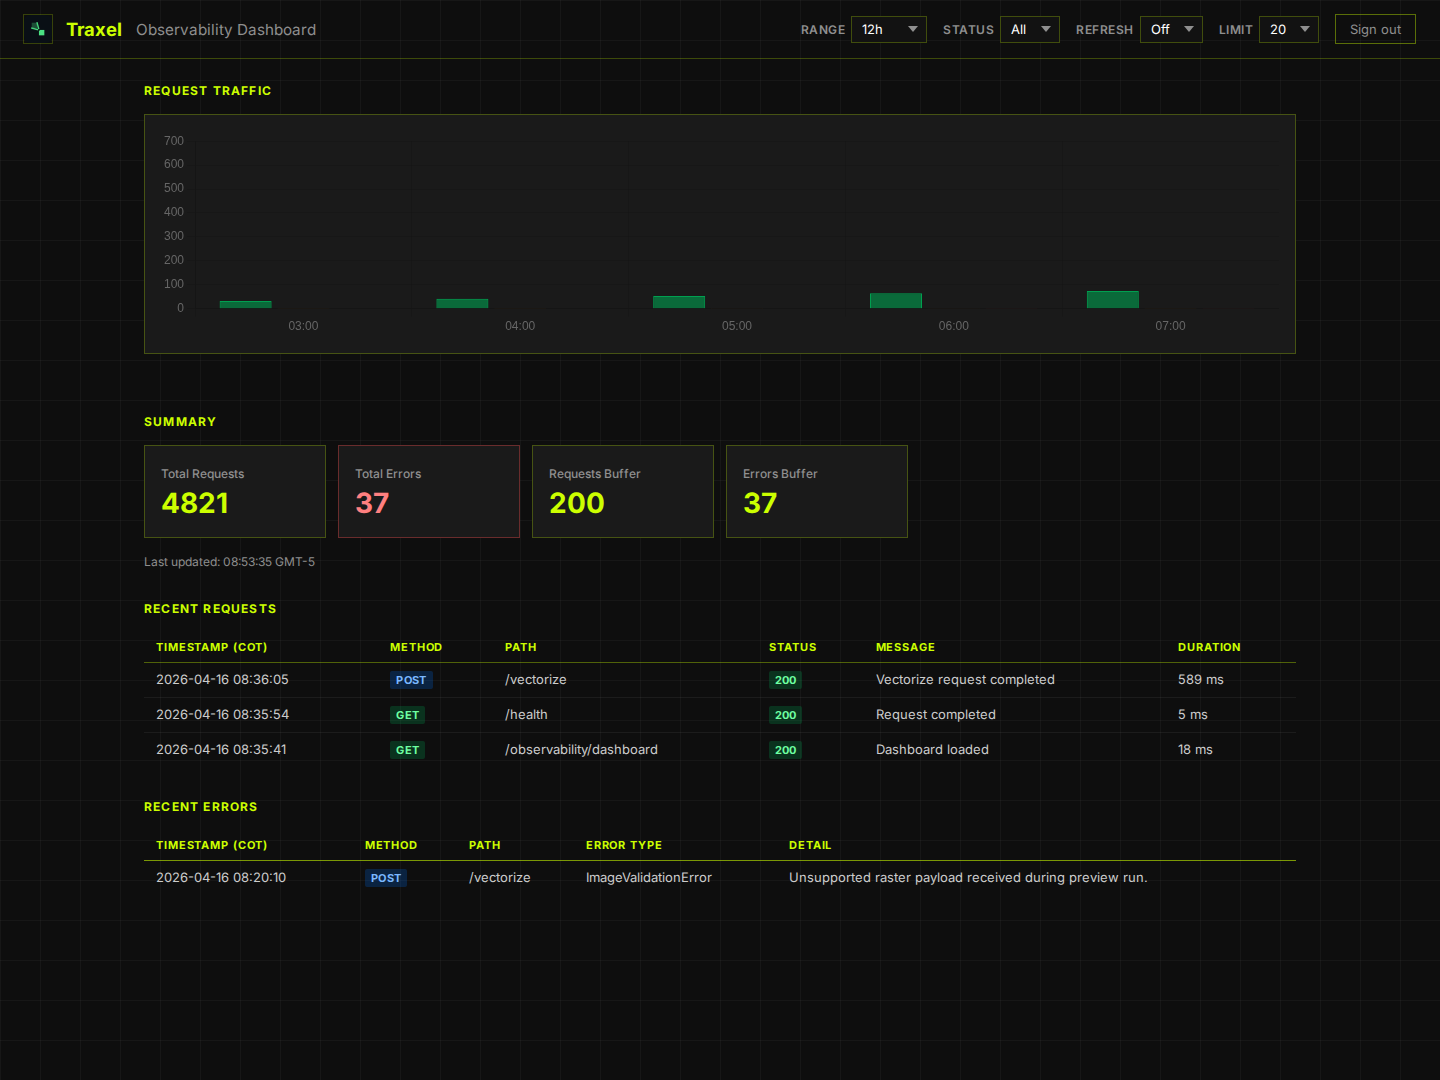
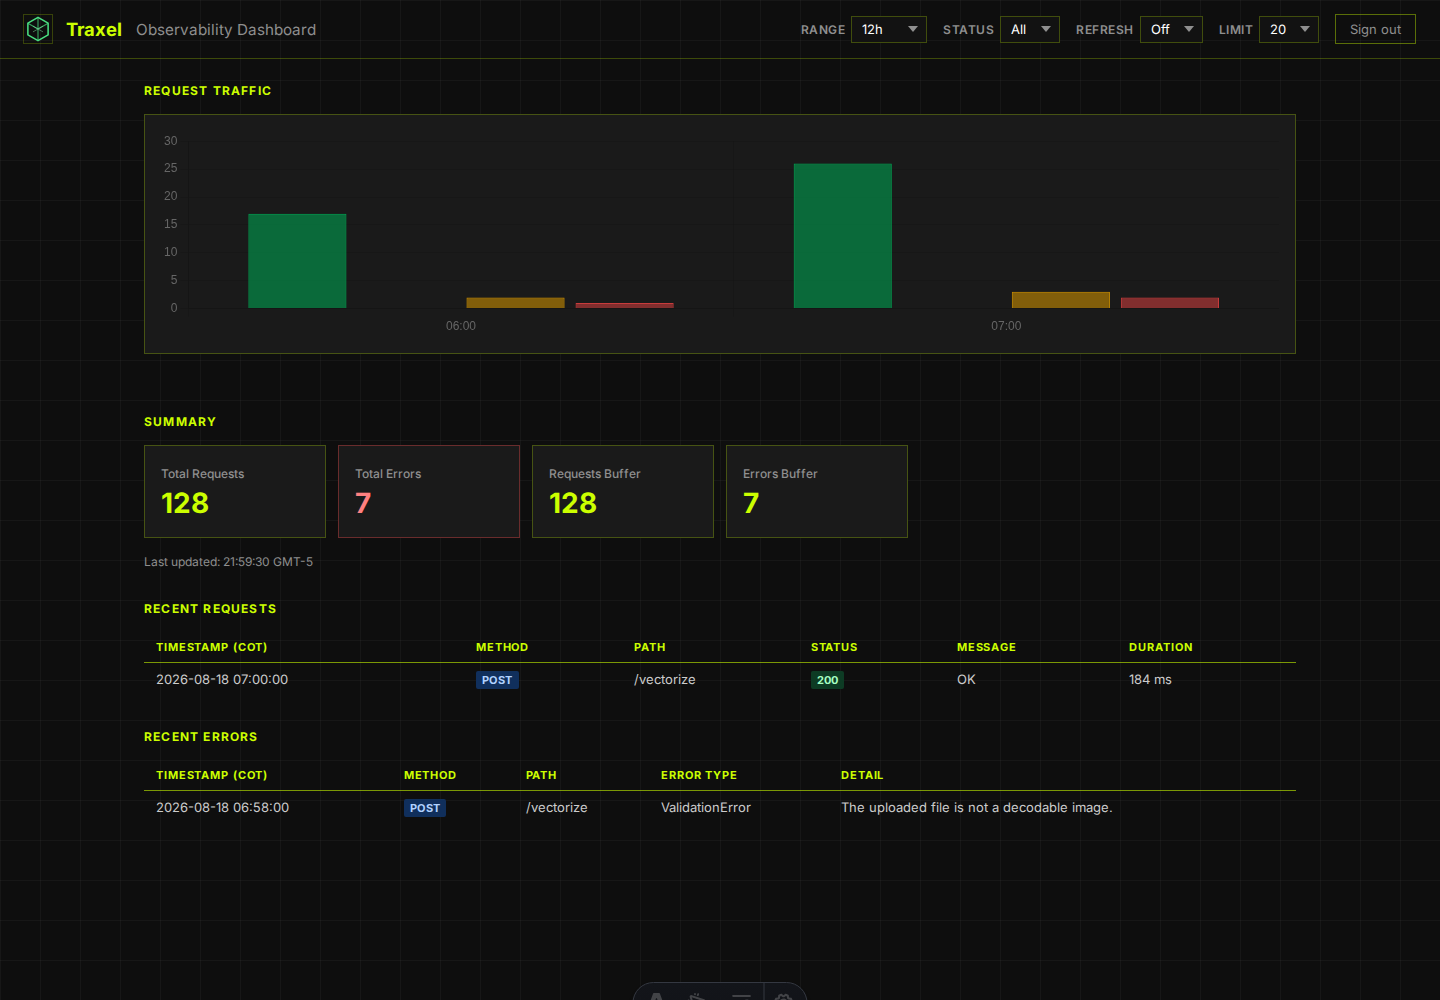
docs: refresh README product evidence

diff --git a/frontend/tests/e2e/readme-artifacts.spec.ts b/frontend/tests/e2e/readme-artifacts.spec.ts
@@ -1,0 +1,103 @@
+import { expect, test } from '@playwright/test';
+import { existsSync, mkdirSync } from 'node:fs';
+import { resolve } from 'node:path';
+
+const projectRoot = resolve(process.cwd(), '..');
+const imagePath = resolve(projectRoot, 'assets_test/Logos/youtube-logo-vector-400x400.png');
+const docsImages = resolve(projectRoot, 'docs/images');
+const framesDir = '/tmp/opencode/traxel-readme-frames';
+
+const summary = {
+		total_requests: 128,
+		total_errors: 7,
+		status_counts: { '200': 104, '400': 12, '404': 5, '500': 7 },
+		path_counts: { '/health': 72, '/vectorize': 49, other: 7 },
+		requests_buffer_size: 128,
+		errors_buffer_size: 7,
+};
+
+const requests = {
+	items: [
+		{
+			timestamp: '2026-08-18T12:00:00Z',
+			method: 'POST',
+			path: '/vectorize',
+			status_code: 200,
+			duration_ms: 184,
+			message: 'OK',
+		},
+	],
+	total: 1,
+};
+
+const errors = {
+	items: [
+		{
+			timestamp: '2026-08-18T11:58:00Z',
+			method: 'POST',
+			path: '/vectorize',
+			error_type: 'ValidationError',
+			error_detail: 'The uploaded file is not a decodable image.',
+		},
+	],
+	total: 1,
+};
+
+const timeseries = {
+	buckets: [
+		{ bucket: '2026-08-18T11:00', count: 20, count_2xx: 17, count_4xx: 2, count_5xx: 1 },
+		{ bucket: '2026-08-18T12:00', count: 31, count_2xx: 26, count_4xx: 3, count_5xx: 2 },
+	],
+	range: '12h',
+	bucket_width: '1h',
+	total: 51,
+};
+
+test('captures current README product evidence', async ({ page }) => {
+	expect(existsSync(imagePath)).toBe(true);
+	mkdirSync(docsImages, { recursive: true });
+	mkdirSync(framesDir, { recursive: true });
+	await page.setViewportSize({ width: 1440, height: 1000 });
+
+	await page.route('**/vectorize', async (route) => {
+		await new Promise((resolveRequest) => setTimeout(resolveRequest, 1_400));
+		await route.continue();
+	});
+
+	await page.goto('/');
+	await page.evaluate(() => {
+		document.documentElement.style.zoom = '0.88';
+	});
+	await page.screenshot({ path: resolve(docsImages, 'traxel-home-hero.png'), fullPage: false });
+	await page.screenshot({ path: resolve(framesDir, 'frame-01.png'), fullPage: false });
+	await page.evaluate(() => {
+		document.documentElement.style.zoom = '';
+	});
+
+	await page.setInputFiles('[data-image-input]', imagePath);
+	await expect(page.locator('[data-processing-overlay]')).toBeVisible();
+	await page.screenshot({ path: resolve(docsImages, 'traxel-processing-state.png'), fullPage: true });
+	await page.screenshot({ path: resolve(framesDir, 'frame-02.png'), fullPage: true });
+
+	await expect(page).toHaveURL(/\/workspace$/);
+	await expect(page.locator('[data-svg-container]')).toBeVisible();
+	await page.screenshot({ path: resolve(docsImages, 'traxel-workspace.png'), fullPage: true });
+	await page.screenshot({ path: resolve(framesDir, 'frame-03.png'), fullPage: true });
+
+	await page.route('**/obs/summary**', (route) => route.fulfill({ status: 200, json: summary }));
+	await page.route('**/obs/requests**', (route) => route.fulfill({ status: 200, json: requests }));
+	await page.route('**/obs/errors**', (route) => route.fulfill({ status: 200, json: errors }));
+	await page.route('**/obs/timeseries**', (route) => route.fulfill({ status: 200, json: timeseries }));
+
+	await page.goto('/observability');
+	await page.fill('[data-obs-username]', 'demo');
+	await page.fill('[data-obs-password]', 'demo');
+	await page.click('[data-obs-login-submit]');
+	await expect(page).toHaveURL(/\/observability\/dashboard$/);
+	await expect(page.locator('[data-obs-dashboard]')).toBeVisible();
+	await expect(page.locator('[data-obs-total-requests]')).toHaveText('128');
+	await expect(page.locator('[data-obs-requests] .obs-table')).toBeVisible();
+	await expect(page.locator('[data-obs-errors] .obs-table')).toBeVisible();
+	await page.waitForTimeout(1_500);
+	await page.screenshot({ path: resolve(docsImages, 'traxel-observability-dashboard.png'), fullPage: true });
+});

diff --git a/README.md b/README.md
@@ -120,6 +120,19 @@ Rebuild images:
 docker compose build --no-cache
 ```
 
+## Regenerate README assets
+
+The product screenshots are generated from the Playwright flow in
+`frontend/tests/e2e/readme-artifacts.spec.ts`. From the `frontend` directory,
+run:
+
+```bash
+pnpm exec playwright test tests/e2e/readme-artifacts.spec.ts
+```
+
+This refreshes the images in `docs/images/`. The demo GIF is assembled from
+the generated frames in `/tmp/opencode/traxel-readme-frames`.
+
 ## Current tradeoffs
 
 - The frontend runs in `astro dev` mode to keep the MVP simple and fast to iterate on.
